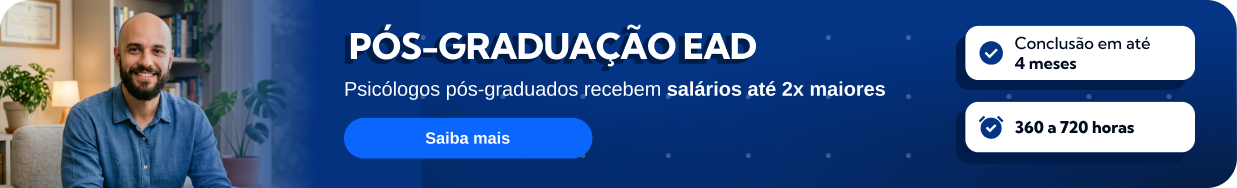
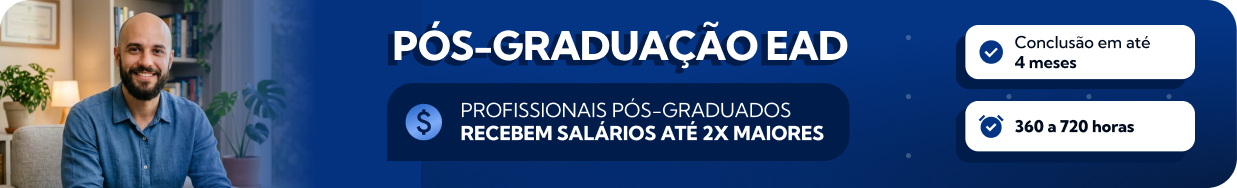
Atualiza header e seção de pós da landing

diff --git a/src/landing/landing.css b/src/landing/landing.css
@@ -21,18 +21,49 @@
   display: flex;
   align-items: center;
   justify-content: space-between;
+  gap: 24px;
 }
 
-.lp-logo {
+.lp-header__brand {
   display: inline-flex;
   align-items: center;
   text-decoration: none;
+  min-width: 0;
+  flex-shrink: 1;
+}
+
+.lp-header__brand-logos {
+  display: inline-flex;
+  align-items: center;
+  gap: 18px;
+  min-width: 0;
+}
+
+.lp-header__divider {
+  width: 1px;
+  height: 52px;
+  border-radius: 2px;
+  background: #d5d5d5;
+  flex-shrink: 0;
 }
 
 .lp-logo__image {
-  width: 185px;
-  height: auto;
+  height: 55px;
   display: block;
+  width: auto;
+  flex-shrink: 0;
+}
+
+.lp-logo__image--psychology {
+  height: 55px;
+}
+
+.lp-logo__image--unicesp {
+  height: 55px;
+}
+
+.lp-logo__image--fasul {
+  height: 55px;
 }
 
 .lp-header__cta {
@@ -790,12 +821,30 @@
 
 .lp-health-ead {
   background: #00163b;
-  padding: 41px 0 32px;
+  padding: 45px 0 30px;
 }
 
 .lp-health-ead__inner {
   width: min(1240px, calc(100% - 2rem));
   margin: 0 auto;
+}
+
+.lp-health-ead__banner-link {
+  display: block;
+  text-decoration: none;
+}
+
+.lp-health-ead__banner-picture {
+  display: block;
+  width: 100%;
+  border-radius: 30px;
+  overflow: hidden;
+}
+
+.lp-health-ead__banner-image {
+  width: 100%;
+  height: auto;
+  display: block;
 }
 
 .lp-health-ead__header {
@@ -840,9 +889,9 @@
 }
 
 .lp-health-ead__carousel {
-  margin-top: 40px;
+  margin-top: 20px;
   display: grid;
-  gap: 16px;
+  gap: 29px;
 }
 
 .lp-health-ead__carousel-shell {
@@ -1752,6 +1801,10 @@
     overflow: visible;
   }
 
+  .lp-health-ead__banner-picture {
+    border-radius: 24px;
+  }
+
   .lp-health-ead__header {
     flex-direction: column;
     align-items: flex-start;
@@ -1773,6 +1826,11 @@
     width: 100%;
     max-width: 100%;
     overflow: hidden;
+  }
+
+  .lp-health-ead__carousel {
+    margin-top: 18px;
+    gap: 20px;
   }
 
   .lp-health-ead__viewport {
@@ -1856,18 +1914,51 @@
   }
 
   .lp-header__inner {
-    width: min(364px, calc(100% - 26px));
-    min-height: 48px;
+    width: min(390px, 100%);
+    min-height: 111px;
+    padding: 11px 14px;
+    box-sizing: border-box;
+    flex-direction: column;
+    align-items: stretch;
+    justify-content: flex-start;
+    gap: 11px;
   }
 
-  .lp-logo__image {
-    width: clamp(110px, 32vw, 118px);
+  .lp-header__brand {
+    width: 100%;
+  }
+
+  .lp-header__brand-logos {
+    width: 100%;
+    justify-content: space-between;
+    gap: 10px;
+  }
+
+  .lp-header__divider {
+    width: 1px;
+    height: 37.5px;
+  }
+
+  .lp-logo__image--psychology {
+    width: min(132px, 36vw);
+    height: auto;
+  }
+
+  .lp-logo__image--unicesp {
+    width: min(81px, 22vw);
+    height: auto;
+  }
+
+  .lp-logo__image--fasul {
+    width: min(64px, 18vw);
+    height: auto;
   }
 
   .lp-header__cta {
-    min-height: 28px;
-    padding: 6.493px 12.985px;
-    border-radius: 6px;
+    width: 100%;
+    min-height: 40px;
+    padding: 12px;
+    border-radius: 10px;
     font-size: 12px;
     line-height: 15.582px;
     font-weight: 800;
@@ -2277,7 +2368,7 @@
   }
 
   .lp-health-ead {
-    padding: 24px 0 24px;
+    padding: 25px 0 25px;
     overflow-x: clip;
   }
 
@@ -2285,6 +2376,10 @@
     width: calc(100% - 28px);
     max-width: 362px;
     overflow: visible;
+  }
+
+  .lp-health-ead__banner-picture {
+    border-radius: 20px;
   }
 
   .lp-health-ead__header {
@@ -2312,8 +2407,8 @@
   }
 
   .lp-health-ead__carousel {
-    margin-top: 14px;
-    gap: 12px;
+    margin-top: 25px;
+    gap: 25px;
   }
 
   .lp-health-ead__carousel-shell {

diff --git a/src/landing/components/HealthCoursesSection.tsx b/src/landing/components/HealthCoursesSection.tsx
@@ -1,5 +1,7 @@
 import { useEffect, useMemo, useRef, useState } from 'react'
 
+import type { MouseEvent } from 'react'
+
 import type { CourseLeadSelection } from '../crmLead'
 import { POS_COURSES_ENDPOINT, parsePostGraduationCourses, type PostCourse } from '../postCourses'
 
@@ -10,7 +12,6 @@ const DEFAULT_CURRENT_PRICE = '18X R$ 66,00/MÊS'
 
 type HealthCourse = {
   id: string
-  tag: string
   title: string
   oldPrice: string
   price: string
@@ -119,7 +120,6 @@ function formatOldPriceForCard(oldValue: string, currentValueWithSuffix: string)
 function buildFallbackCourse(target: TargetPsychologyCourse): HealthCourse {
   return {
     id: `fallback-${target.fallbackValue}`,
-    tag: 'POS EAD',
     title: target.title,
     oldPrice: DEFAULT_OLD_PRICE,
     price: DEFAULT_CURRENT_PRICE,
@@ -138,7 +138,6 @@ function mapPostCourseToHealthCard(course: PostCourse, target: TargetPsychologyC
 
   return {
     id: course.value,
-    tag: 'POS EAD',
     title: target.title,
     oldPrice,
     price,
@@ -311,18 +310,34 @@ export function HealthCoursesSection({ onOpenCoursePopup }: HealthCoursesSection
 
   const offset = cardsPerView > 1 ? clampedIndex * (CARD_WIDTH + CARD_GAP) : 0
 
+  const handleNavigateToCards = (event: MouseEvent<HTMLAnchorElement>) => {
+    event.preventDefault()
+    document.getElementById('pos-graduacao-courses')?.scrollIntoView({
+      behavior: 'smooth',
+      block: 'start',
+    })
+  }
+
   return (
     <section id="pos-graduacao" className="lp-health-ead" aria-label="Pós EAD em Psicologia">
       <div className="lp-health-ead__inner">
-        <header className="lp-health-ead__header">
-          <h2 className="lp-health-ead__title">PÓS EAD NA ÁREA DA PSICOLOGIA</h2>
-          <p className="lp-health-ead__highlight">
-            <span>PSICÓLOGOS PÓS-GRADUADOS</span>
-            <strong>RECEBEM SALÁRIOS ATÉ 2X MAIORES</strong>
-          </p>
-        </header>
+        <a
+          className="lp-health-ead__banner-link"
+          href="#pos-graduacao-courses"
+          onClick={handleNavigateToCards}
+          aria-label="Ir para cursos de pós-graduação"
+        >
+          <picture className="lp-health-ead__banner-picture">
+            <source media="(max-width: 768px)" srcSet="/landing/posgraduacao-banner-mobile.webp" />
+            <img
+              className="lp-health-ead__banner-image"
+              src="/landing/posgraduacao-banner.webp"
+              alt="Pós-graduação EAD em Psicologia"
+            />
+          </picture>
+        </a>
 
-        <div className="lp-health-ead__carousel">
+        <div className="lp-health-ead__carousel" id="pos-graduacao-courses">
           <div className="lp-health-ead__carousel-shell">
             <div ref={viewportRef} className="lp-health-ead__viewport">
               <div
@@ -341,7 +356,6 @@ export function HealthCoursesSection({ onOpenCoursePopup }: HealthCoursesSection
                     </div>
 
                     <div className="lp-health-ead-card__badges">
-                      <span className="lp-health-ead-card__tag">{course.tag}</span>
                       <span className="lp-health-ead-card__mec">RECONHECIDO MEC</span>
                     </div>
                     <h3 className="lp-health-ead-card__title">{course.title}</h3>

diff --git a/src/landing/components/Header.tsx b/src/landing/components/Header.tsx
@@ -6,12 +6,26 @@ export function Header({ onOpenPopup }: HeaderProps) {
   return (
     <header className="lp-header" id="inicio">
       <div className="lp-header__inner">
-        <a className="lp-logo" href="#inicio" aria-label="Faculdade de Psicologia UNICESP">
-          <img
-            className="lp-logo__image"
-            src="/landing/faculdade-de-psicologia-logo.webp"
-            alt="Faculdade de Psicologia UNICESP"
-          />
+        <a className="lp-header__brand" href="#inicio" aria-label="Faculdade de Psicologia UNICESP FASUL">
+          <div className="lp-header__brand-logos">
+            <img
+              className="lp-logo__image lp-logo__image--psychology"
+              src="/landing/faculdade-de-psicologia-logo.webp"
+              alt="Faculdade de Psicologia"
+            />
+            <span className="lp-header__divider" aria-hidden="true" />
+            <img
+              className="lp-logo__image lp-logo__image--unicesp"
+              src="/landing/unicesp-logo.webp"
+              alt="UNICESP"
+            />
+            <span className="lp-header__divider" aria-hidden="true" />
+            <img
+              className="lp-logo__image lp-logo__image--fasul"
+              src="/landing/fasul-logo.webp"
+              alt="FASUL"
+            />
+          </div>
         </a>
         <button type="button" className="lp-header__cta" onClick={onOpenPopup}>
           QUERO ME MATRICULAR

diff --git a/src/landing/LandingPage.tsx b/src/landing/LandingPage.tsx
@@ -13,7 +13,6 @@ import { Header } from './components/Header'
 import { HealthCoursesSection } from './components/HealthCoursesSection'
 import { HeroSection } from './components/HeroSection'
 import { MarketSection } from './components/MarketSection'
-import { ProfileBannerSection } from './components/ProfileBannerSection'
 
 const HERO_COURSE_SELECTION: CourseLeadSelection = {
   courseType: 'graduacao',
@@ -41,7 +40,6 @@ export function LandingPage() {
       <Header onOpenPopup={openHeroPopup} />
       <HeroSection onOpenPopup={openHeroPopup} />
       <CourseSection />
-      <ProfileBannerSection />
       <FaqSection onOpenPopup={openHeroPopup} />
       <FooterSection />
       <MarketSection />
